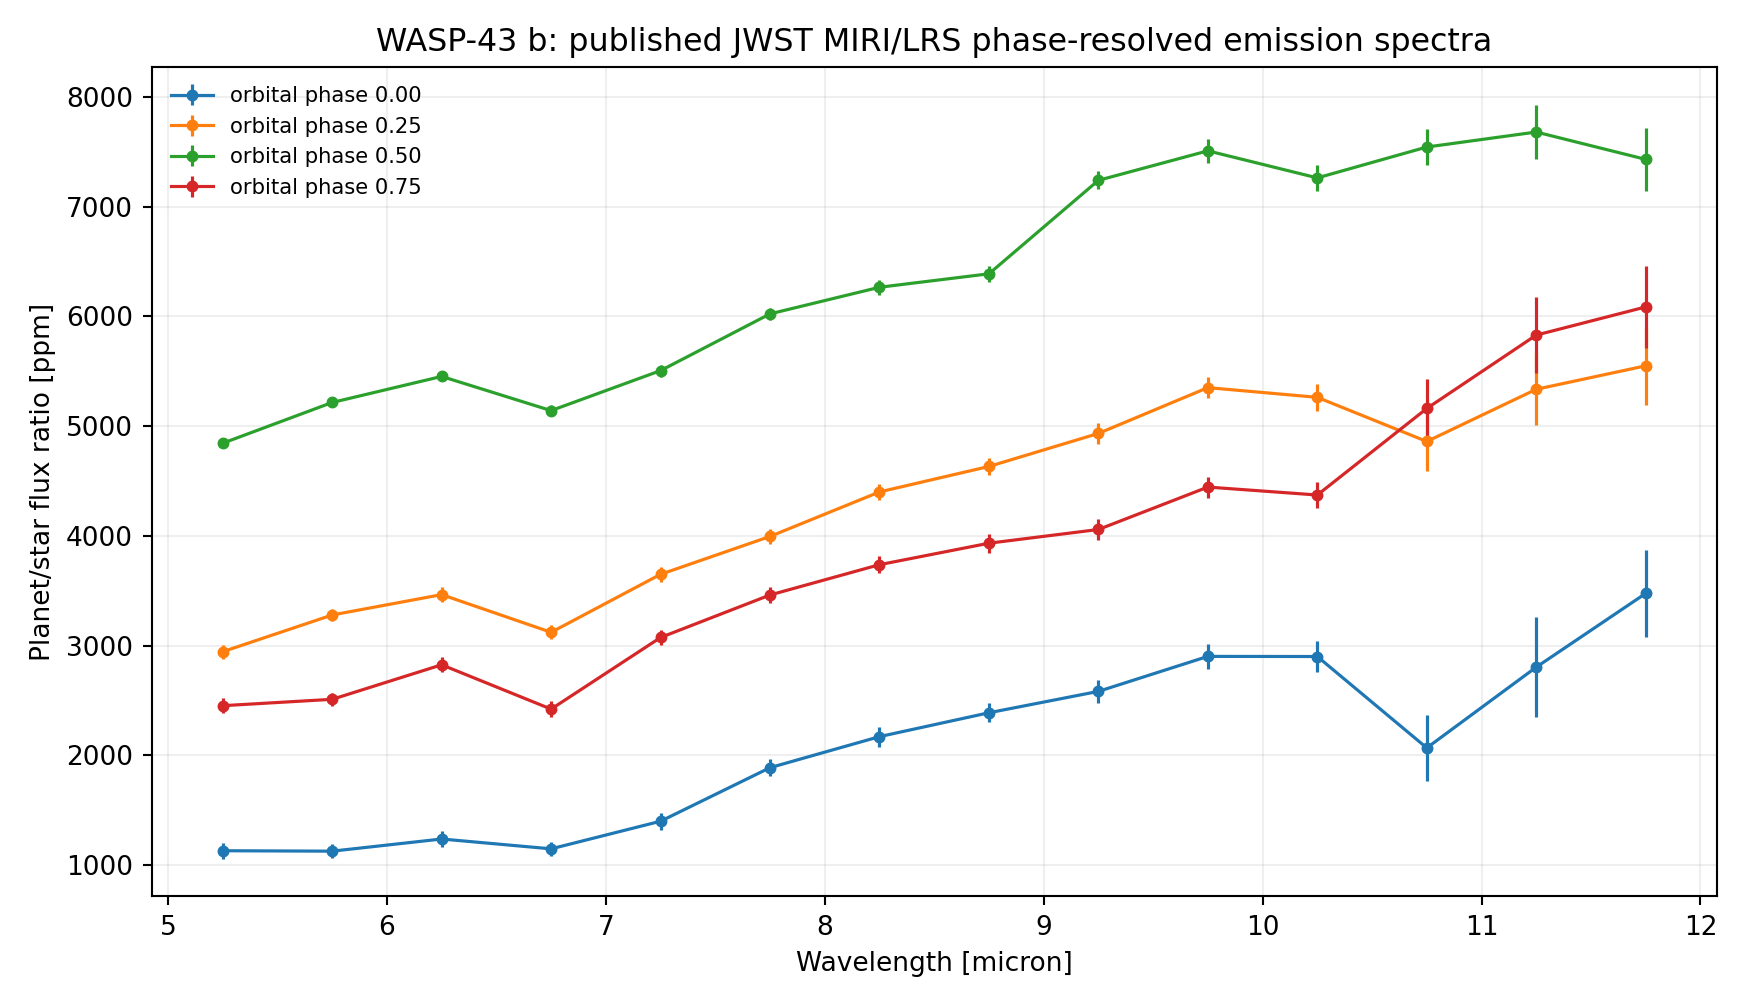
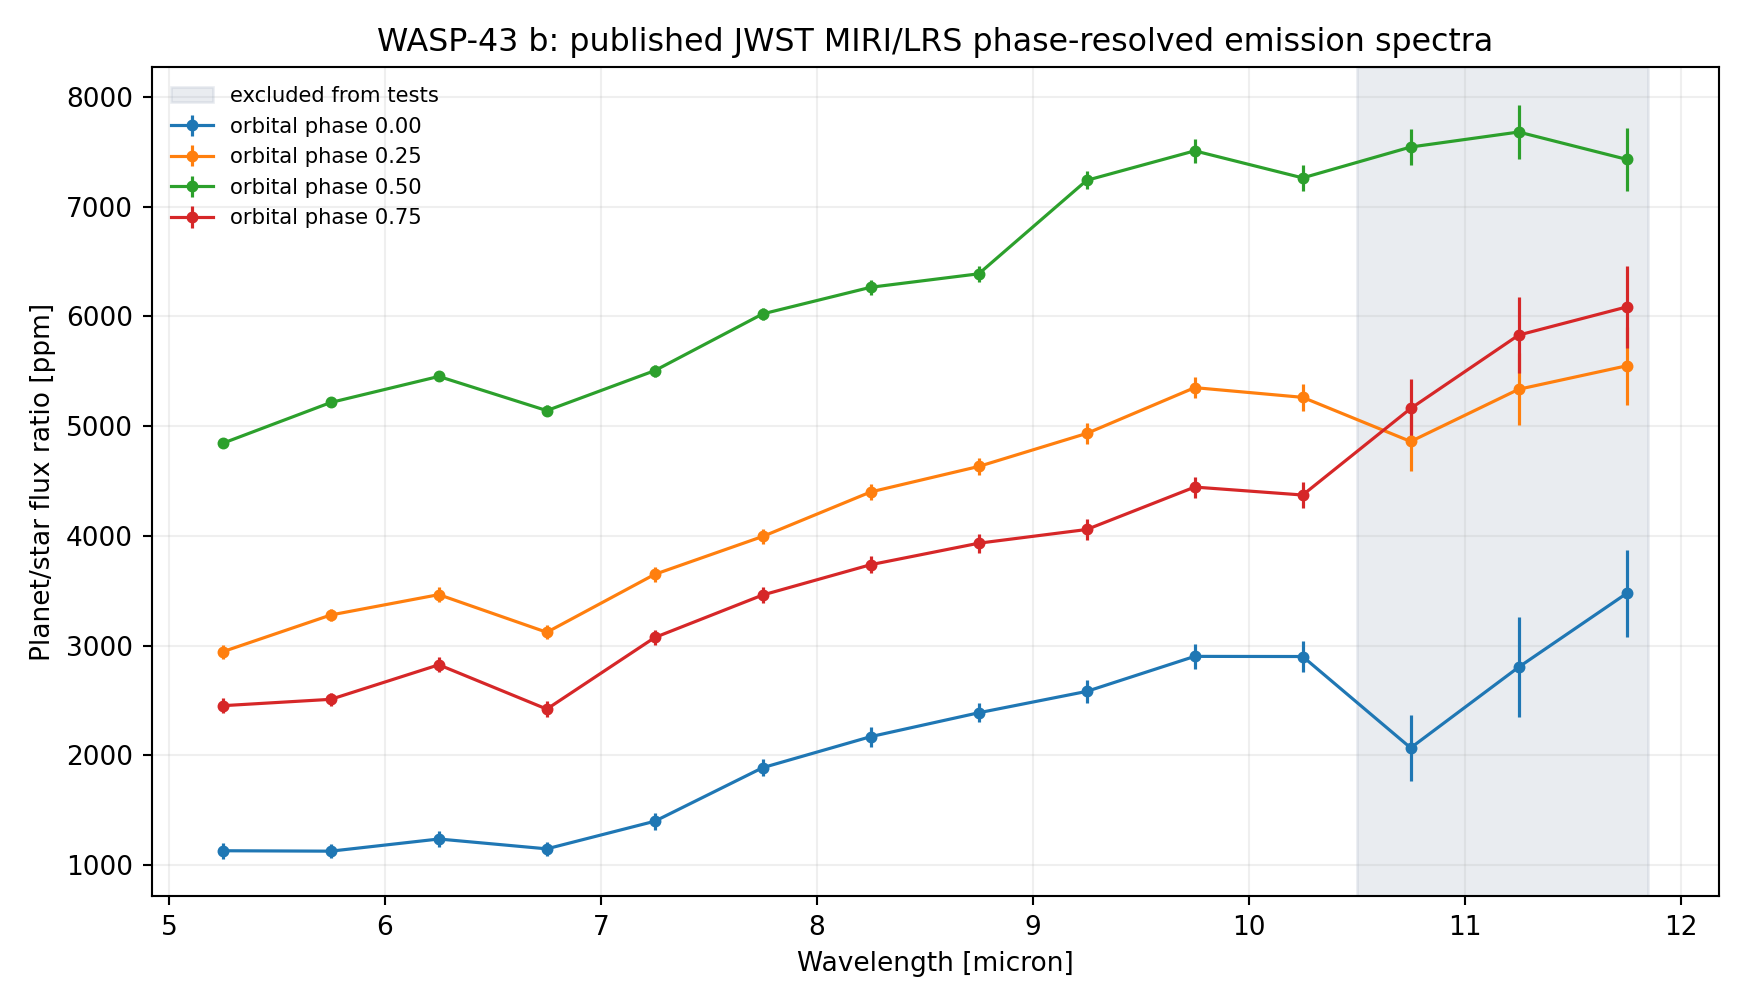
fix: enforce the published MIRI wavelength domain

diff --git a/scripts/analyze_spectrum.py b/scripts/analyze_spectrum.py
@@ -55,17 +55,19 @@ def main():
     with h5py.File(DATA / "fiducial_combined.h5") as handle:
         phases = handle["phase"][...]; wavelength = handle["wavelength"][...]
         values = handle["fp_fs"][...]; errors = handle["fp_fs_error"][...]
+    trusted = wavelength <= 10.5
     rows = []; fig, ax = plt.subplots(figsize=(9.2, 5.3))
     for phase, spectrum, uncertainty in zip(phases, values, errors):
-        flat = flat_test(spectrum, uncertainty); linear = linear_test(wavelength, spectrum, uncertainty)
-        rows.append({"comparison": f"phase {phase:.2f}", **flat, **linear})
+        flat = flat_test(spectrum[trusted], uncertainty[trusted]); linear = linear_test(wavelength[trusted], spectrum[trusted], uncertainty[trusted])
+        rows.append({"comparison": f"phase {phase:.2f}", "wavelength_min_micron": float(wavelength[trusted].min()), "wavelength_max_micron": float(wavelength[trusted].max()), "excluded_long_wavelength_bins": int((~trusted).sum()), **flat, **linear})
         ax.errorbar(wavelength, spectrum, yerr=uncertainty, fmt="o-", ms=3.5, lw=1.2, label=f"orbital phase {phase:.2f}")
+    ax.axvspan(10.5, wavelength.max() + 0.1, color="#94a3b8", alpha=0.2, label="excluded from tests")
     write_rows(rows)
     ax.set(xlabel="Wavelength [micron]", ylabel="Planet/star flux ratio [ppm]",
            title="WASP-43 b: published JWST MIRI/LRS phase-resolved emission spectra")
     ax.grid(alpha=.2); ax.legend(frameon=False, fontsize=8); fig.tight_layout()
     fig.savefig(FIGURE_FILE, dpi=190); plt.close(fig)
-    return {"rows": rows, "n": len(wavelength)}
+    return {"rows": rows, "n": len(wavelength), "n_tested": int(trusted.sum()), "n_excluded": int((~trusted).sum())}
 
 if __name__ == "__main__":
-    result = main(); print(f"WASP-43 b: four orbital phases, {result['n']} wavelength bins each")
+    result = main(); print(f"WASP-43 b: four phases, {result['n_tested']}/{result['n']} bins used in tests ({result['n_excluded']} excluded above 10.5 micron)")

diff --git a/tests/test_spectrum.py b/tests/test_spectrum.py
@@ -5,8 +5,11 @@ import analyze_spectrum as spectrum
 
 def test_spectrum_analysis_is_finite_and_reproducible():
     result = spectrum.main()
-    assert result["n"] > 5
+    assert result["n"] == 14
+    assert result["n_tested"] == 11
+    assert result["n_excluded"] == 3
     assert result["rows"]
+    assert all(row["n"] == 11 for row in result["rows"])
     assert all(np.isfinite(row["chi2"]) and row["dof"] > 0 for row in result["rows"])
     for path in (spectrum.STATS_FILE, spectrum.FIGURE_FILE):
         assert Path(path).is_file() and Path(path).stat().st_size > 100
